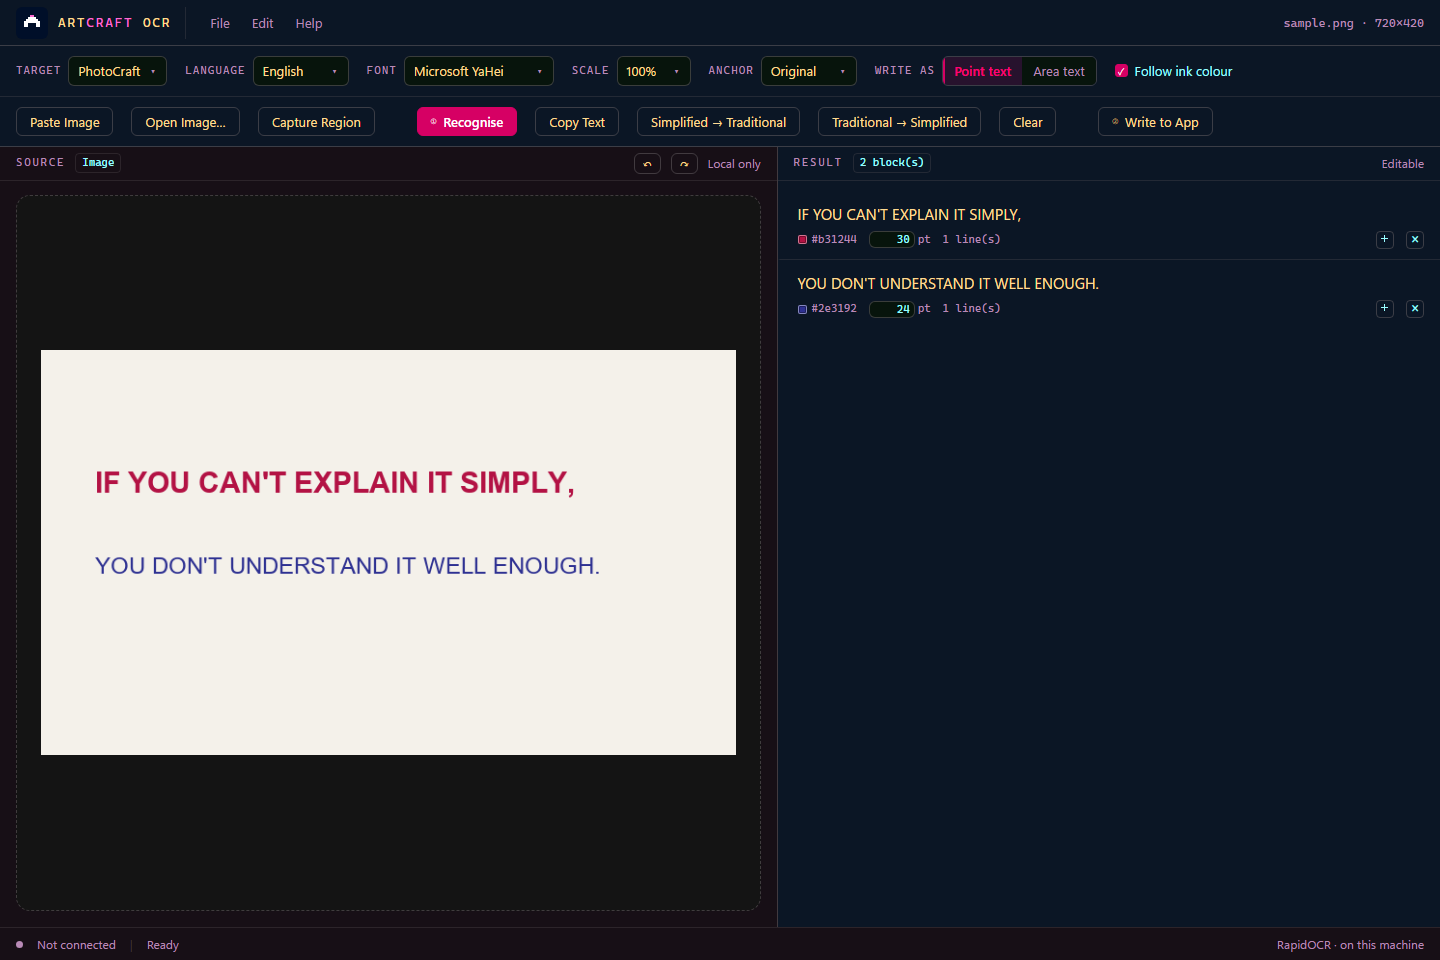
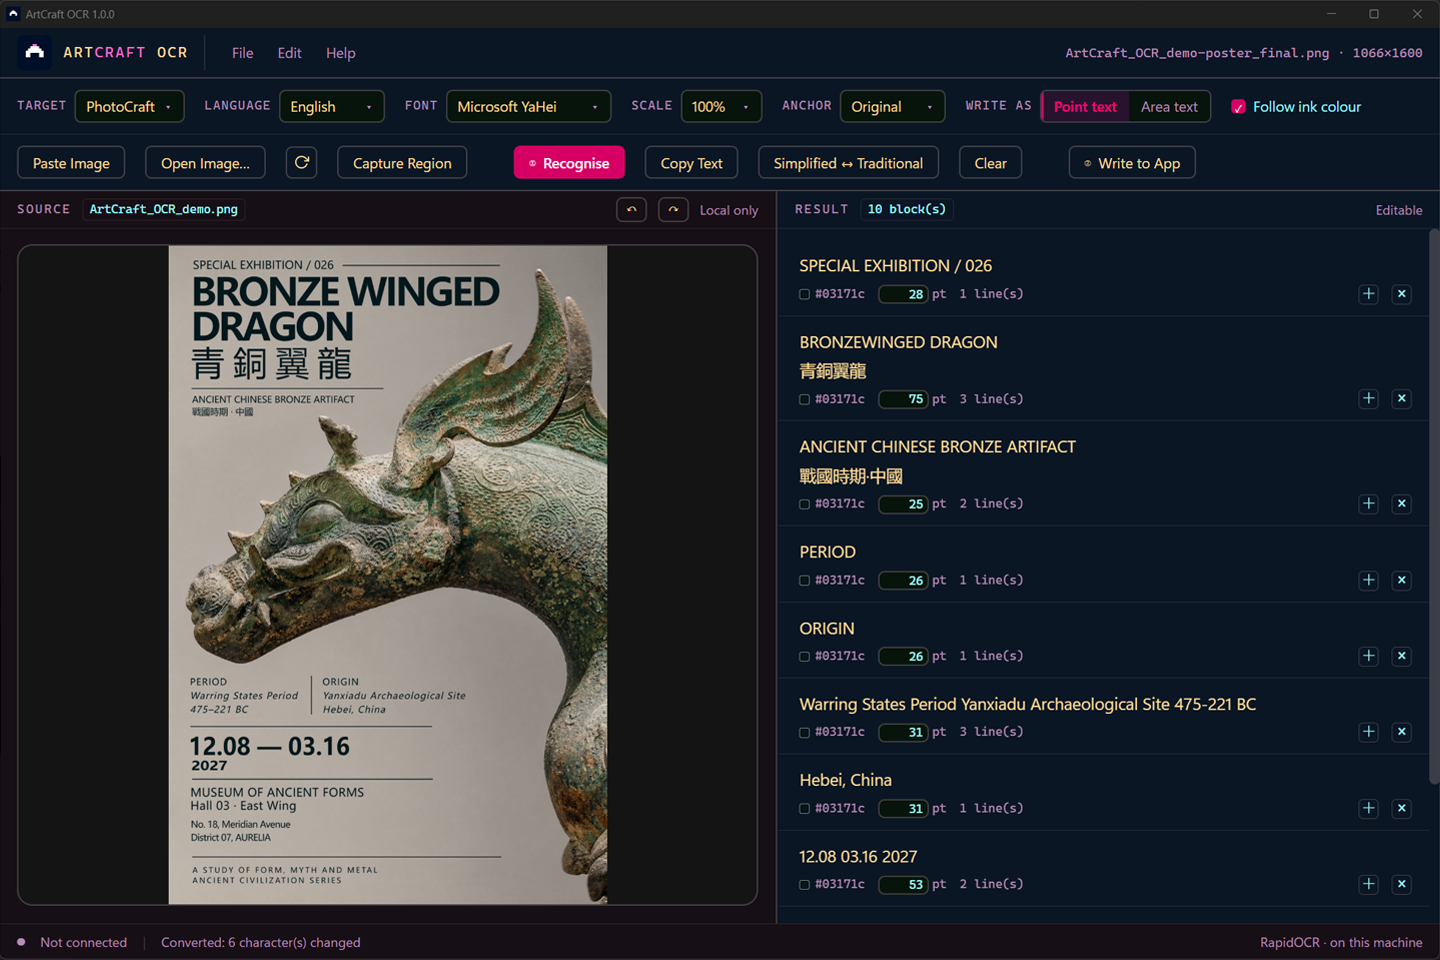
DOCS: final UI screenshots; package rebuilt (103.07 MB)
The screenshots are the ones the owner shot: real poster, ten blocks, current toolbar. They live inside the package, so the archive and its checksum were rebuilt rather than the repository alone.

diff --git a/RELEASES/1.0.0/RELEASE_PAGE.md b/RELEASES/1.0.0/RELEASE_PAGE.md
@@ -14,7 +14,7 @@ cloud upload, no internet connection required.
 
 ![Recognise](https://raw.githubusercontent.com/Laplace2-ai/artcraft-ocr/main/DOCS/images/demo/step-1.png)
 
-**Download:** `ArtCraftOCR-1.0.0-win64.zip` (101.8 MB) · Windows 10/11, 64-bit · SHA-256 in
+**Download:** `ArtCraftOCR-1.0.0-win64.zip` (103.1 MB) · Windows 10/11, 64-bit · SHA-256 in
 `SHA256SUMS.txt`
 
 ### What it does
@@ -88,7 +88,7 @@ project; the Lp2 mark belongs to Laplace2-ai.
 
 ![识别](https://raw.githubusercontent.com/Laplace2-ai/artcraft-ocr/main/DOCS/images/demo/step-1.png)
 
-**下载**：`ArtCraftOCR-1.0.0-win64.zip`（101.8 MB）· Windows 10/11 64 位 · SHA-256 见
+**下载**：`ArtCraftOCR-1.0.0-win64.zip`（103.1 MB）· Windows 10/11 64 位 · SHA-256 见
 `SHA256SUMS.txt`
 
 ### 它做什么
